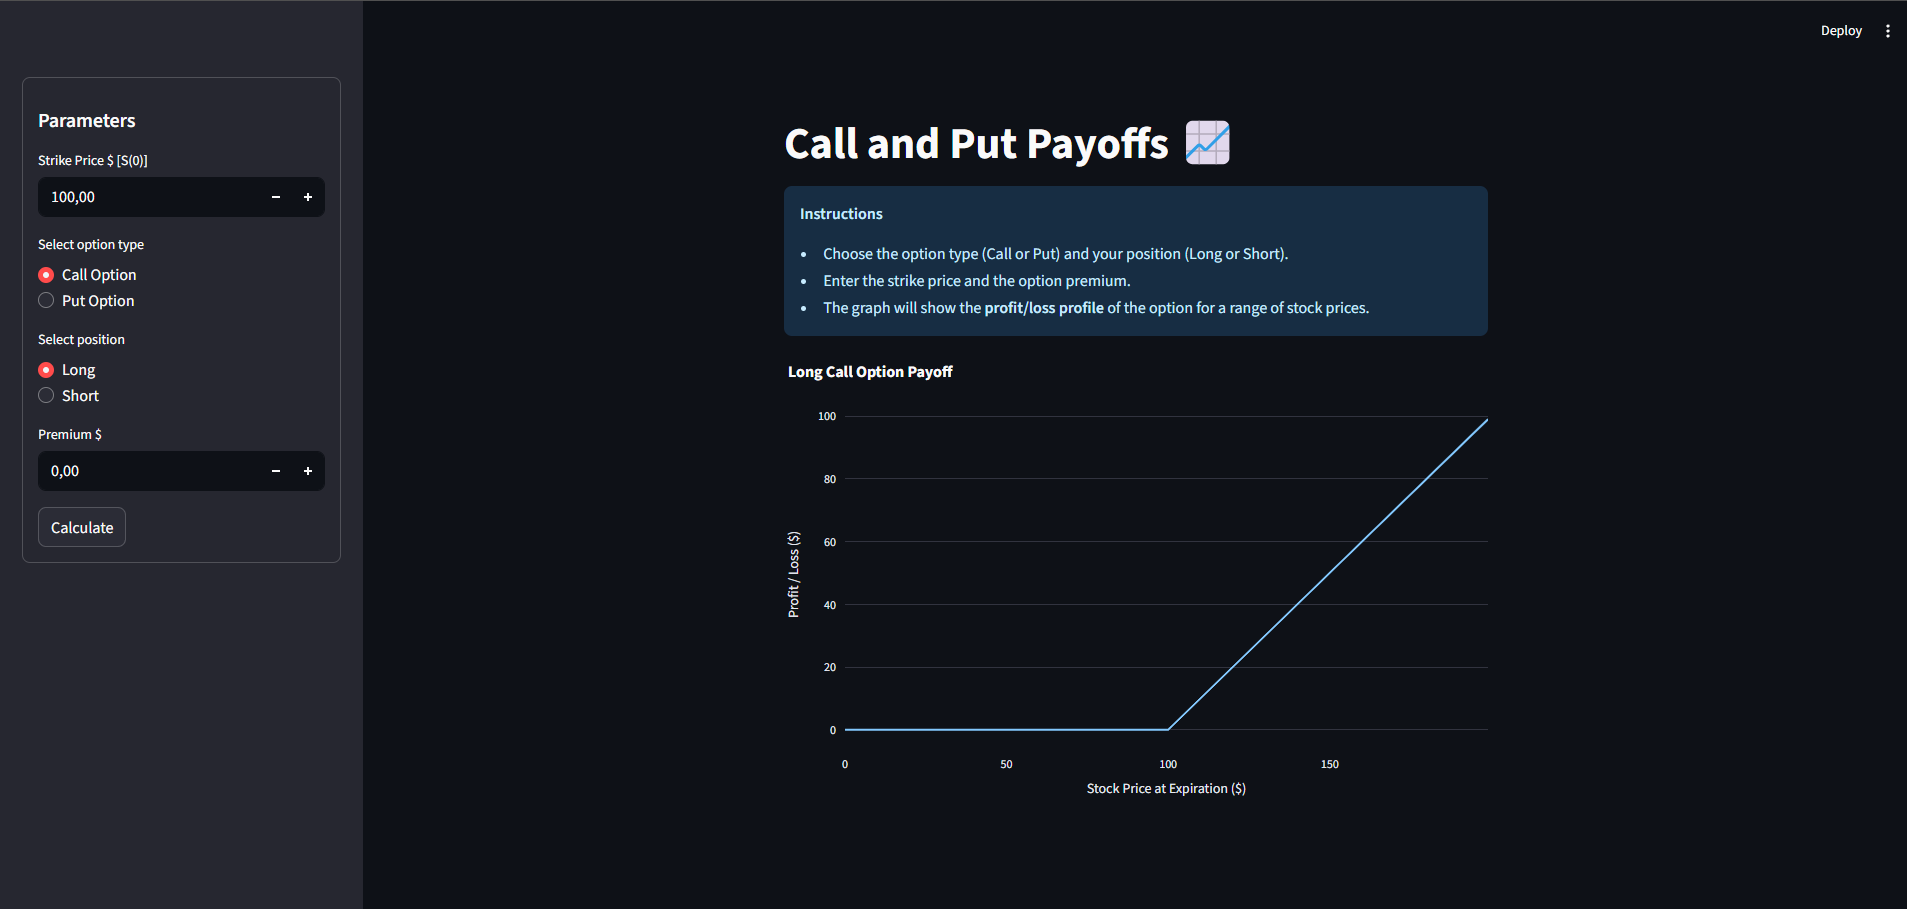
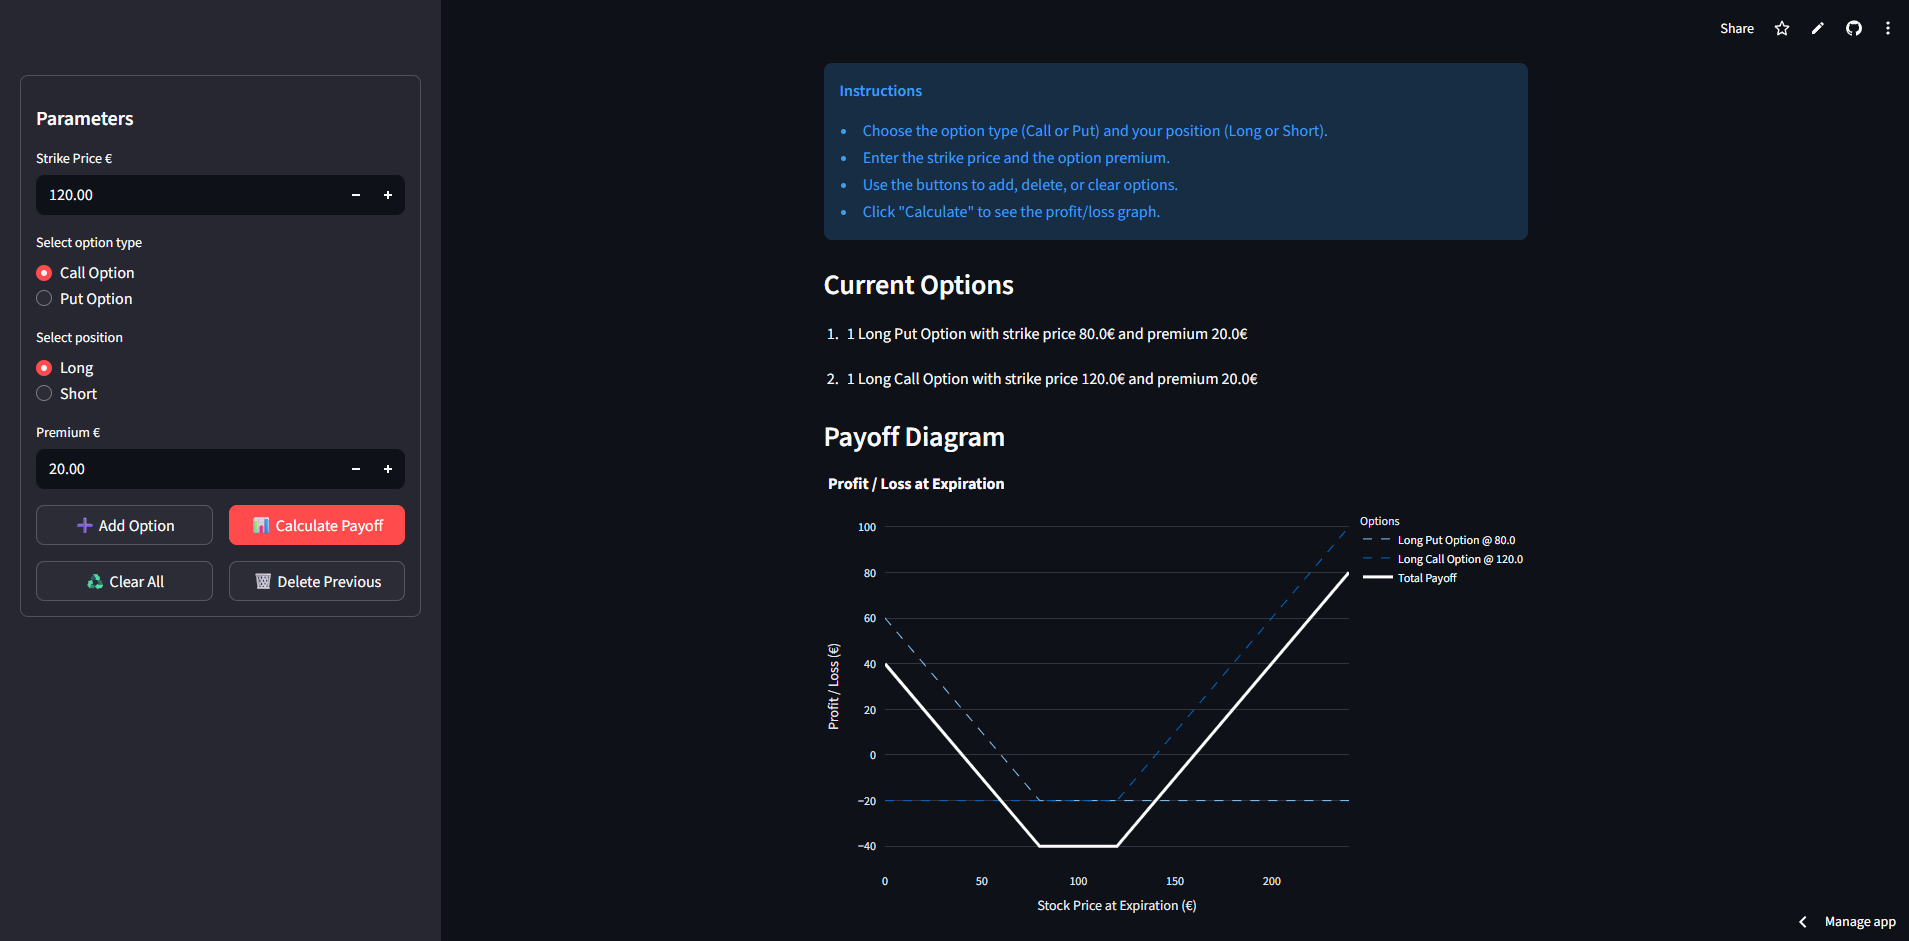
README and demo.png updated in cap2/options

diff --git a/cap2_paul_wilmott/options/README.md b/cap2_paul_wilmott/options/README.md
@@ -10,7 +10,7 @@ A friendly and interactive Streamlit app to visualize **call and put option payo
 * Choose **Long or Short** position
 * Enter **strike price** and **premium**
 * Visualize **profit/loss at expiration** for a range of stock prices
-* Interactive Plotly chart with **breakeven point** highlighted
+* Interactive Plotly chart with **total payoff** and individual option lines
 * Max and Min payoff displayed for easy analysis
 
 ---
@@ -29,8 +29,8 @@ git clone https://github.com/pedromaltex/Introducao_Matematica_Financeira.git
 python -m venv venv
 source venv/bin/activate  # Linux/macOS
 venv\Scripts\activate     # Windows
-cd cap2_paul_wilmott\call_put_options
-
+cd cap2_paul_wilmott
+cd options
 ```
 
 3. Install dependencies:
@@ -50,9 +50,10 @@ streamlit run app.py
 ```
 
 * Fill in the **strike price** and **premium**.
-* Select **option type** and **position**.
-* Click **Calculate** to see the interactive payoff chart.
-* Hover over the chart to see **profit/loss** at specific stock prices.
+* Select **option type** (Call or Put) and **position** (Long or Short).
+* Use **Add**, **Delete Previous**, or **Clear All** to manage options.
+* Click **Calculate Payoff** to see the interactive chart.
+* Hover over the chart to inspect **profit/loss** at specific stock prices.
 
 ---
 
@@ -65,9 +66,9 @@ streamlit run app.py
 ## Folder Structure 📁
 
 ```
-call-put-payoff-app/
+options/
 ├─ app.py              # Main Streamlit app
-├─ call_put_aux.py     # Option payoff helper functions
+├─ options.py          # Option payoff helper functions
 ├─ requirements.txt    # Dependencies
 ├─ README.md           # This file
 └─ screenshots/        # Example screenshots (optional)
@@ -91,4 +92,4 @@ MIT License – free to use, modify, and share!
 
 ## Author 👨💻
 
-Pedro Maltez– finance and coding enthusiast. Learn and experiment with option payoffs in a visual way!
+Pedro Maltez – finance and coding enthusiast. Learn and experiment with option payoffs in a visual way!
